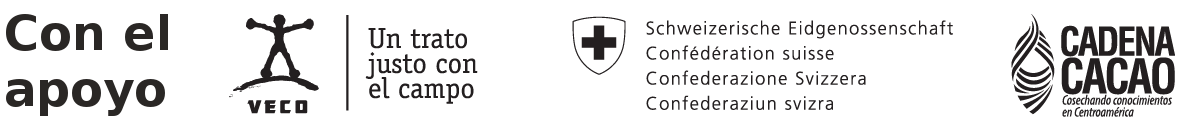
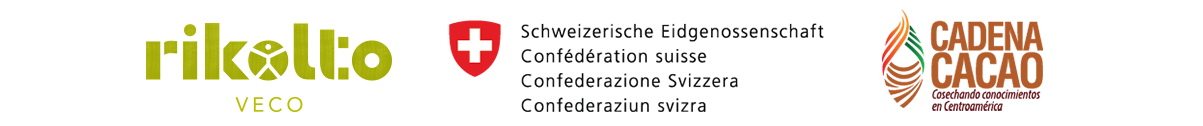
agregando img footer

diff --git a/templates/base.html b/templates/base.html
@@ -187,7 +187,7 @@
             <div class="row text-center">
                 <!--begin col-sm-12-->
                 <div class="col-sm-12 sponsors">
-                    <img src="/static/images/footer-banner2.png" class="sponsor" alt="image">
+                    <img src="/static/images/footer-banner.png" class="sponsor" alt="image">
                     
                 </div>
                 <!--end col-sm-12-->
